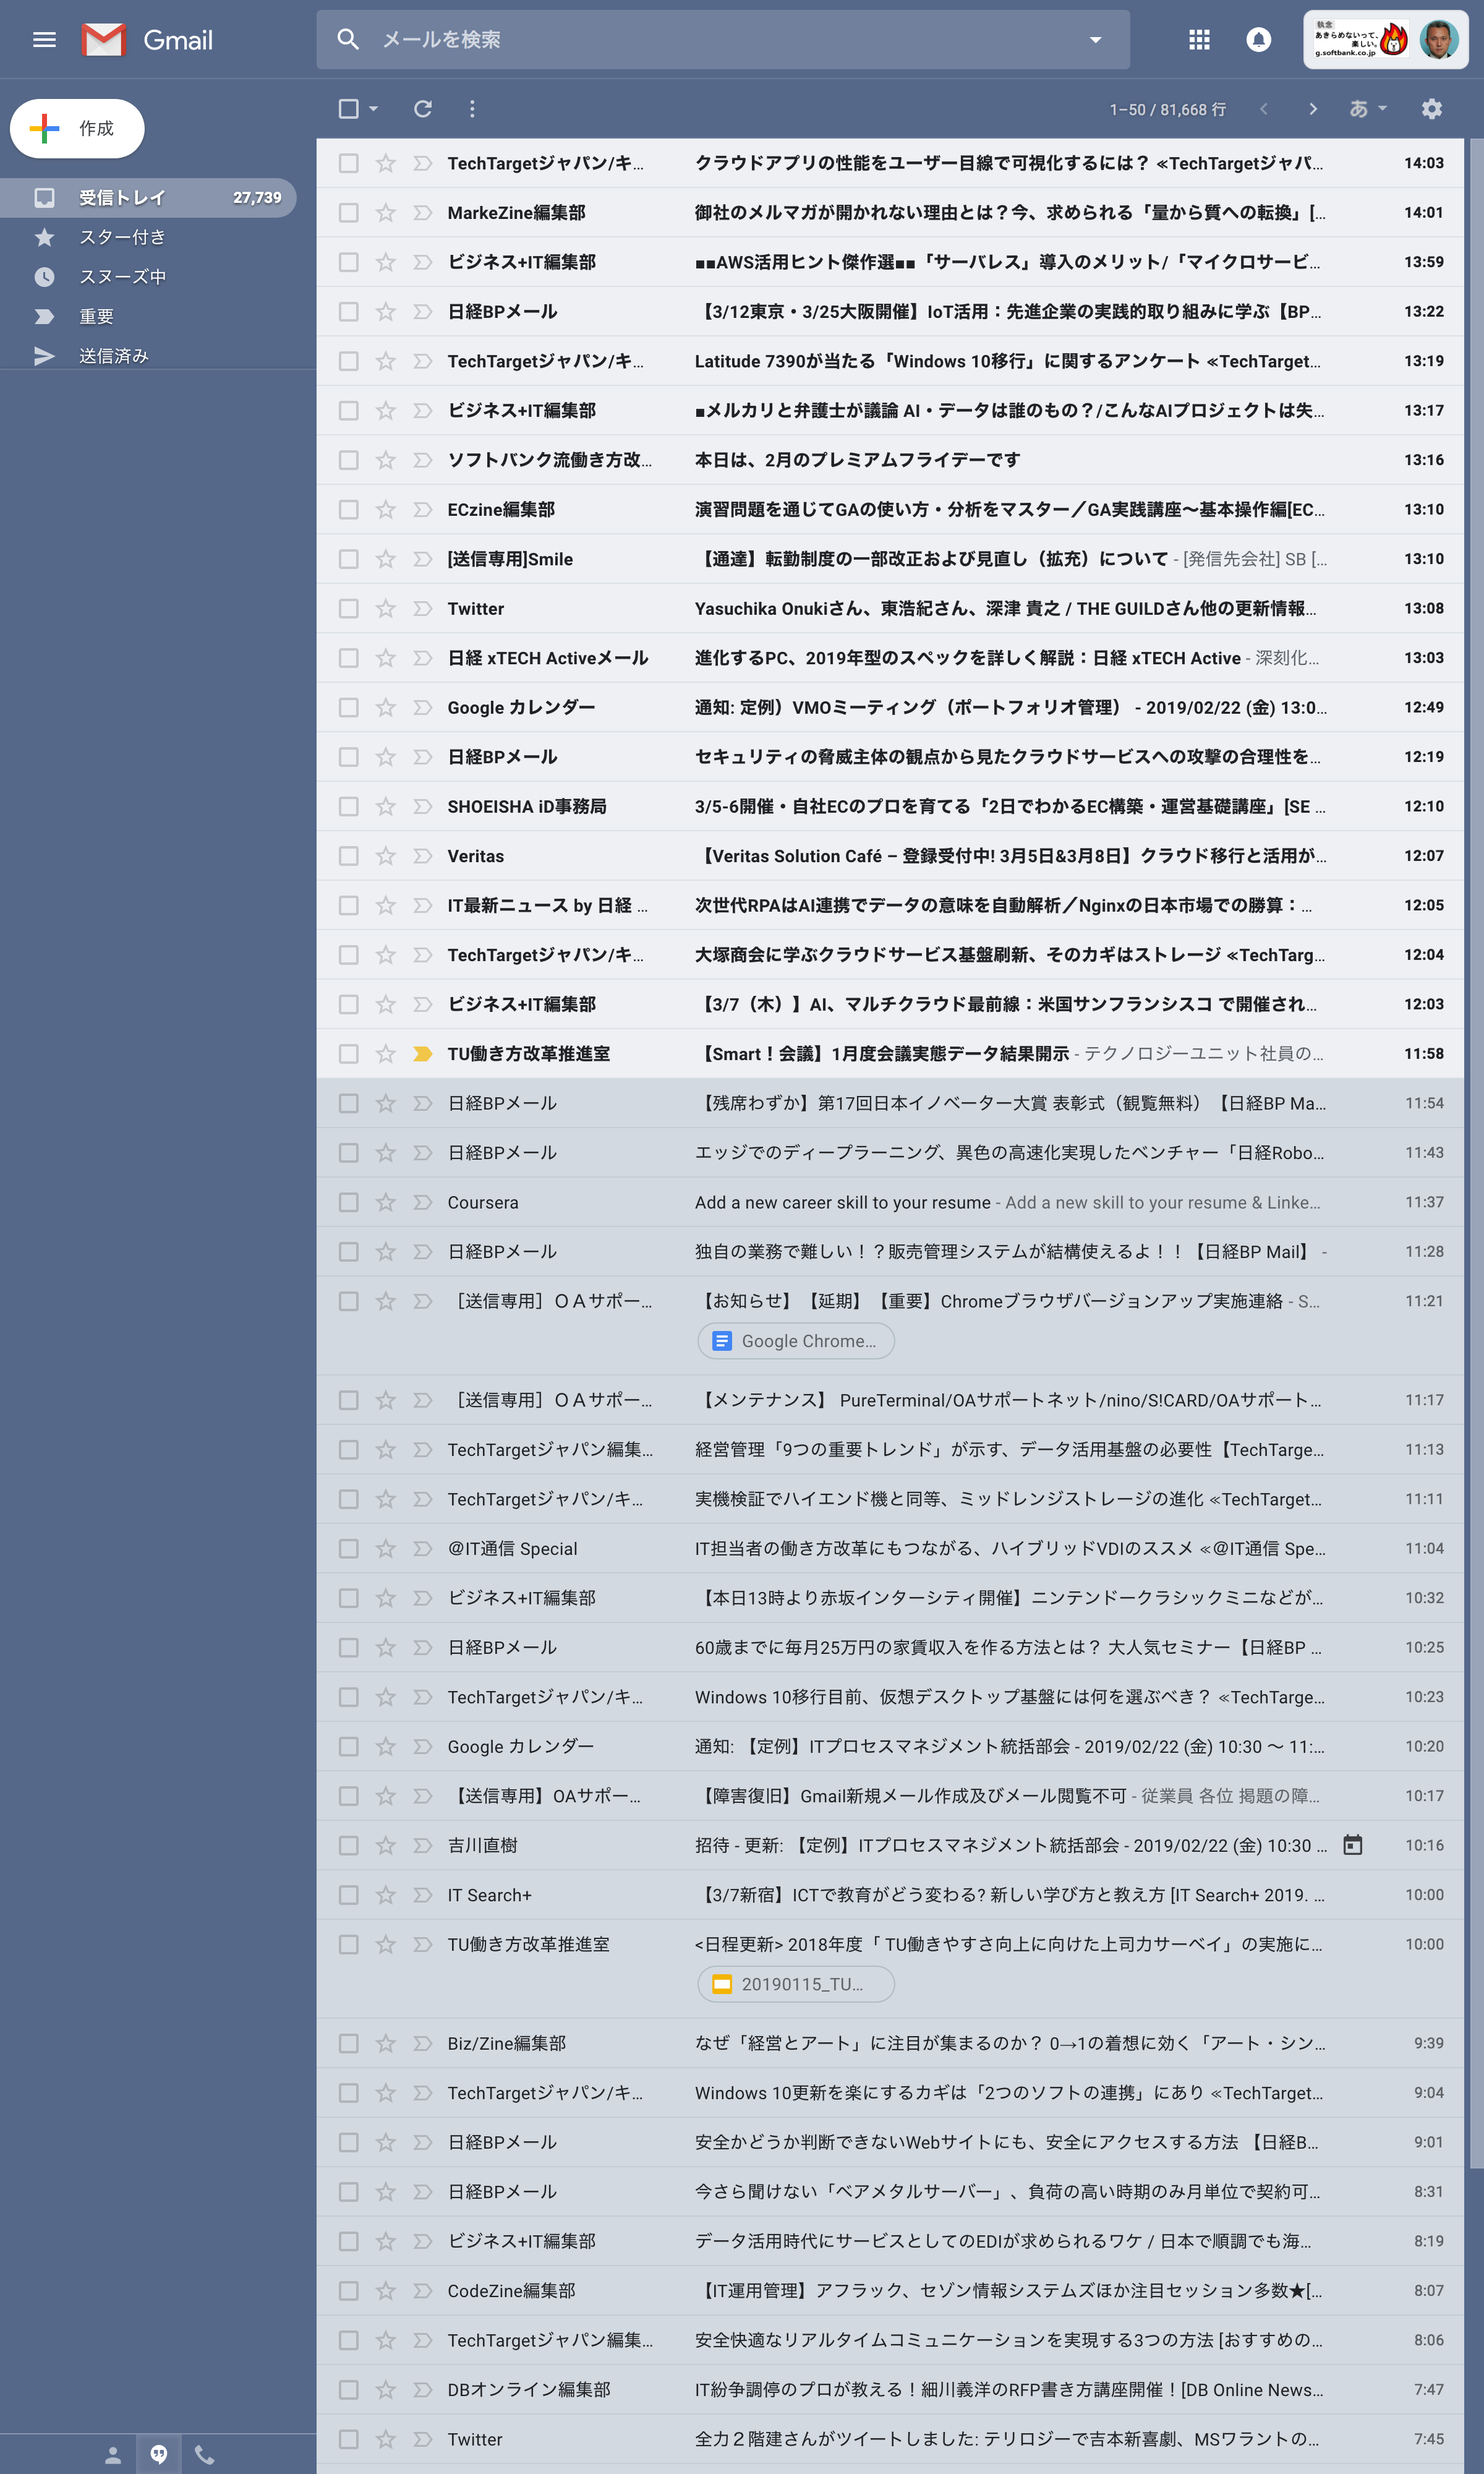
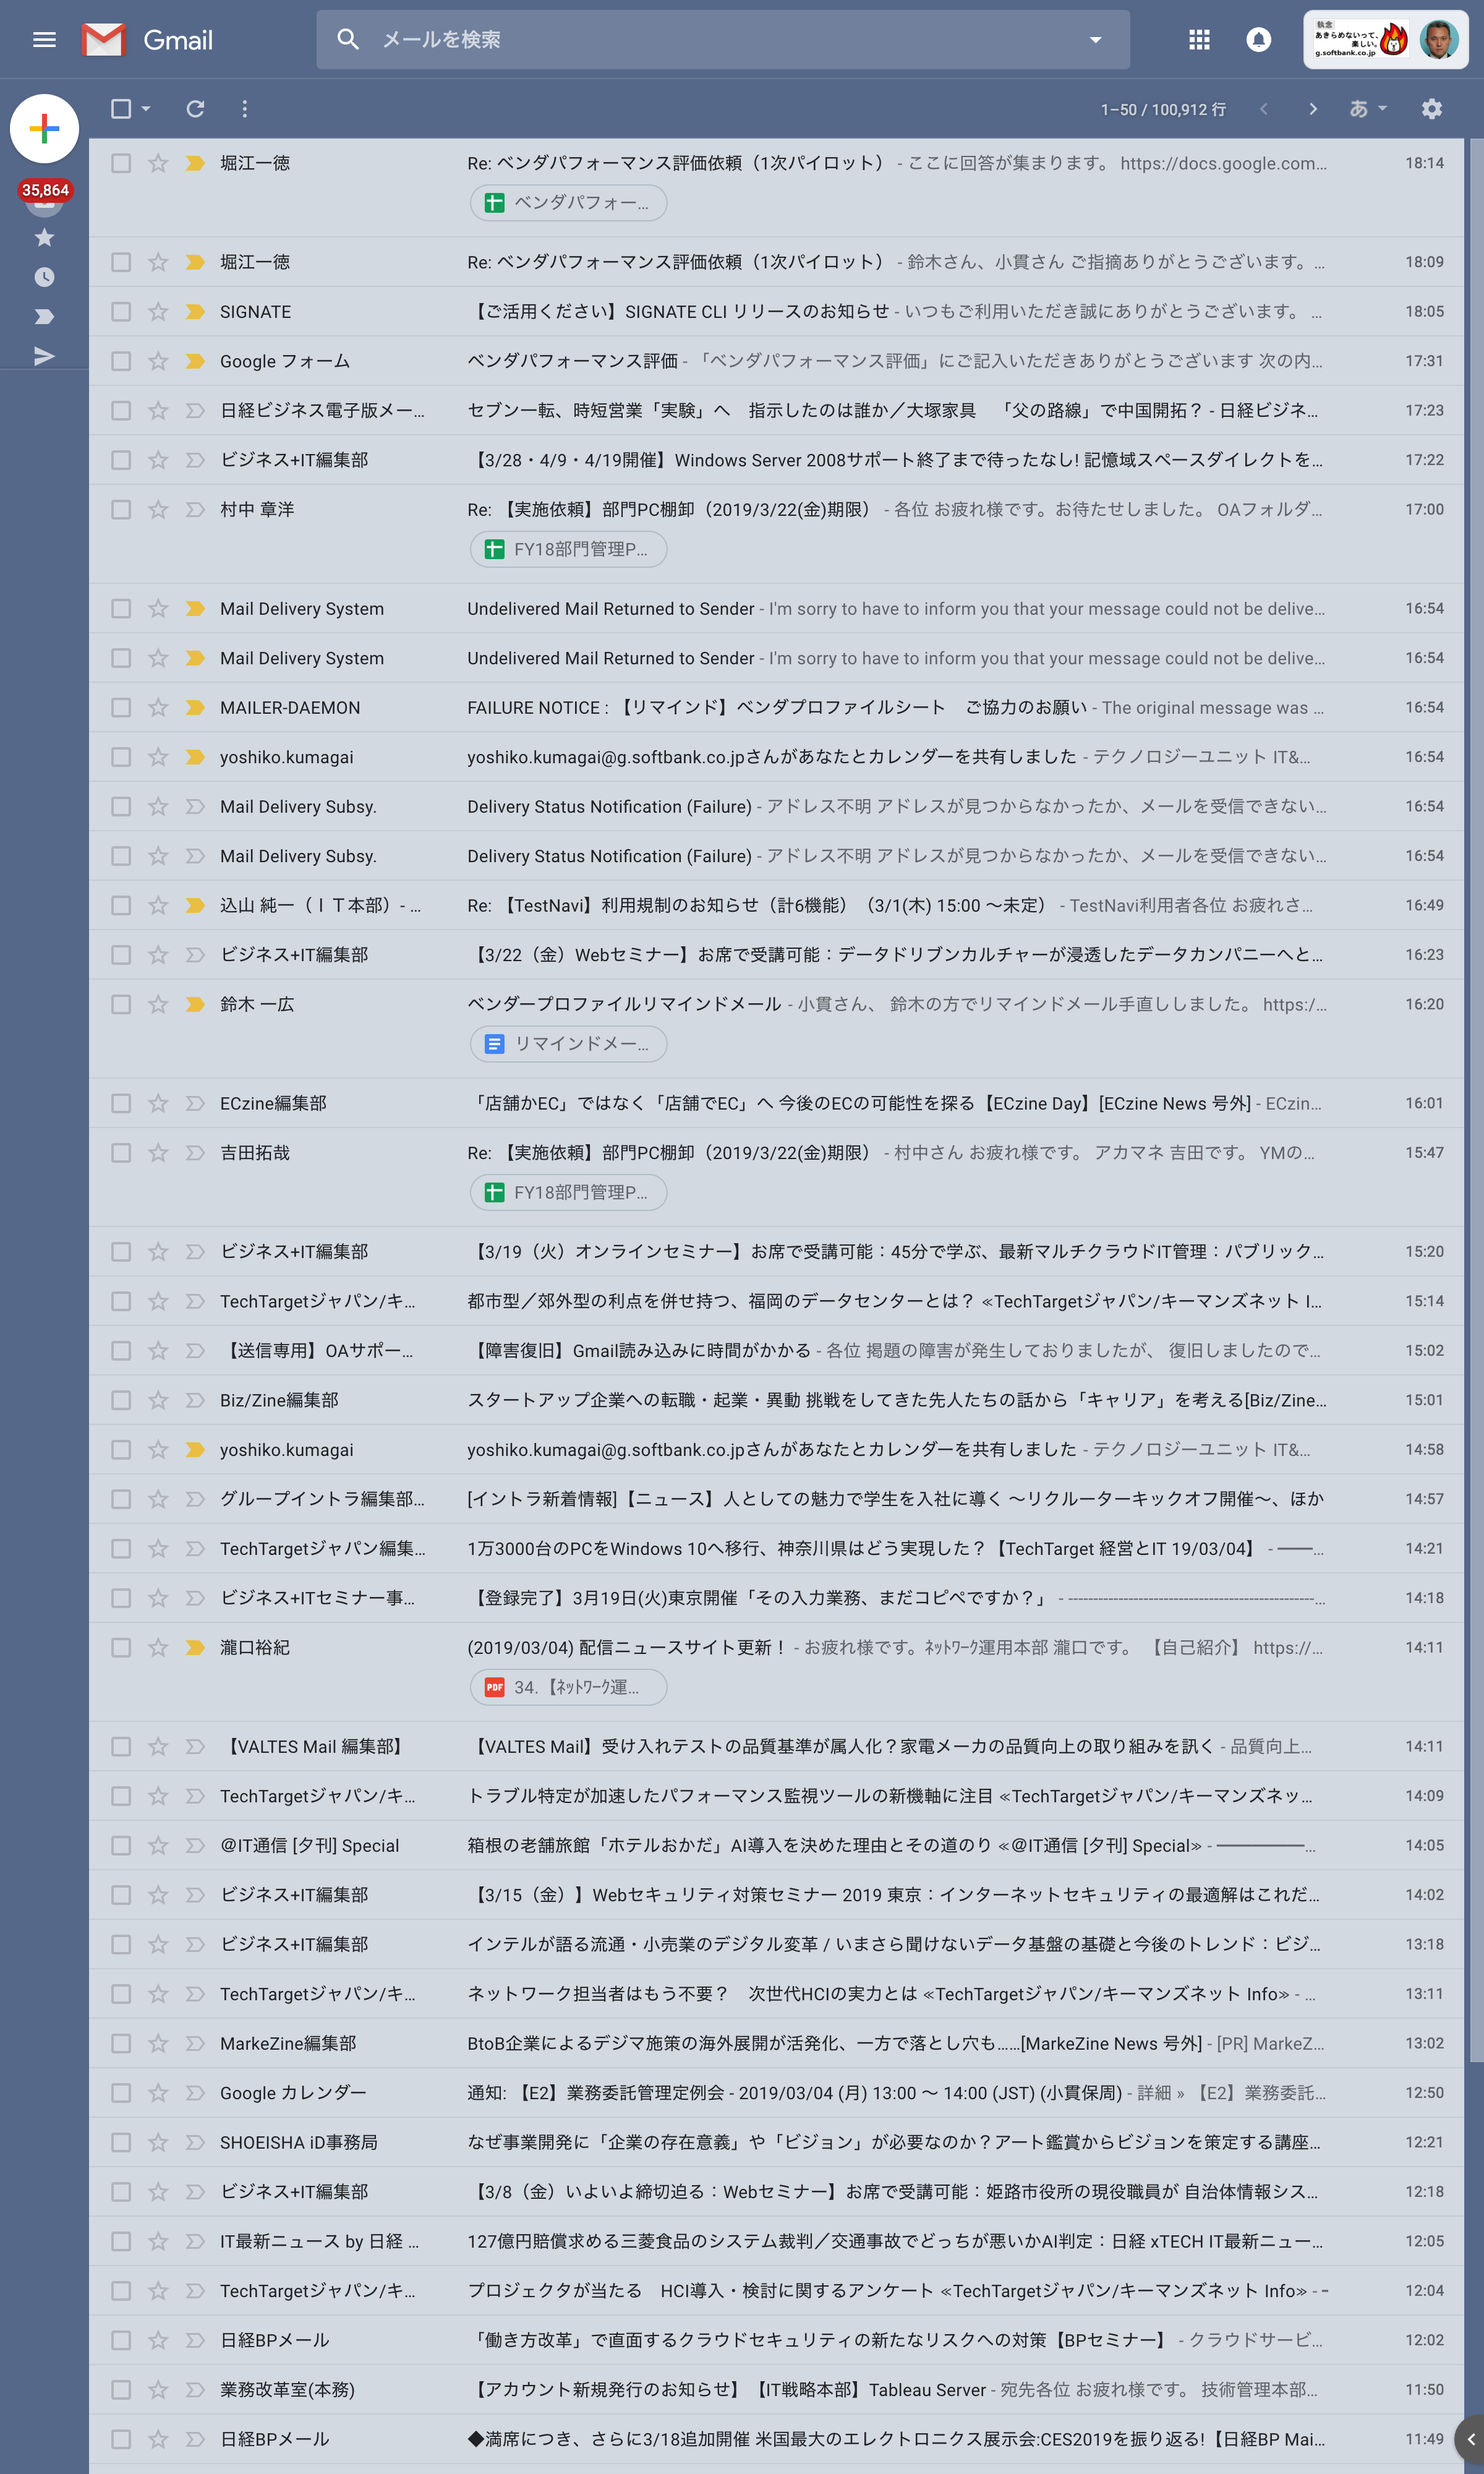
simple HTML mode

diff --git a/mail_sender_test.rb b/mail_sender_test.rb
@@ -19,7 +19,7 @@ page_height = 2000
 driver.manage.window.resize_to(page_width, page_height)
 
 # ログイン先のURL
-START_URL = 'https://mail.google.com/mail/u/0/#label/kaggle'
+START_URL = 'https://mail.google.com/'
 driver.navigate.to START_URL
 # ちょっと確認のためです
 driver.save_screenshot './inbox.png'
@@ -47,4 +47,8 @@ wait.until {driver.find_element(:id, 'loginFormButton').displayed?}
 driver.find_element(:id, 'loginFormButton').click
 driver.save_screenshot './click_second_time.png'
 # これで認証できたはず
+#p driver.page_source
+# 改めて簡易モードに入るのはどうでしょう
+driver.navigate.to 'https://mail.google.com/mail/?ui=html'
+driver.save_screenshot './click_third_time.png'
 p driver.page_source
